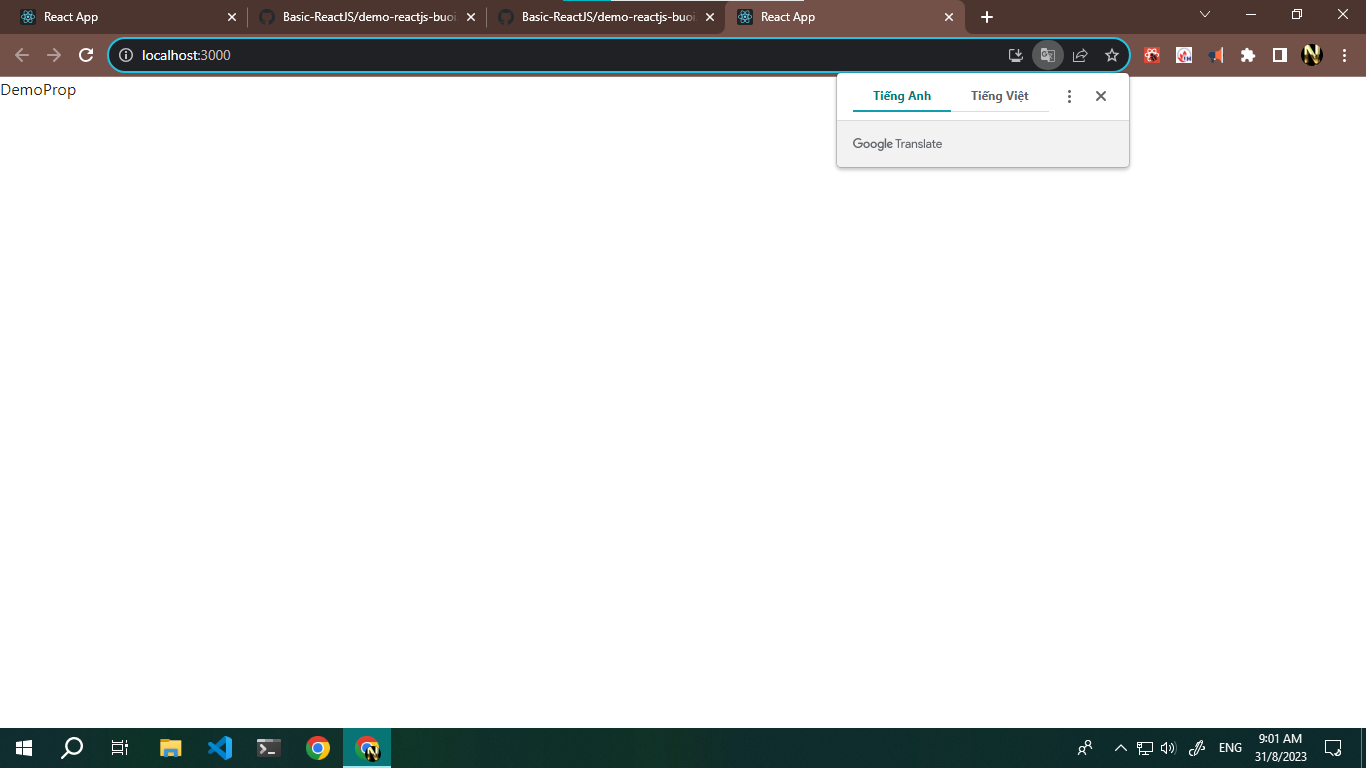
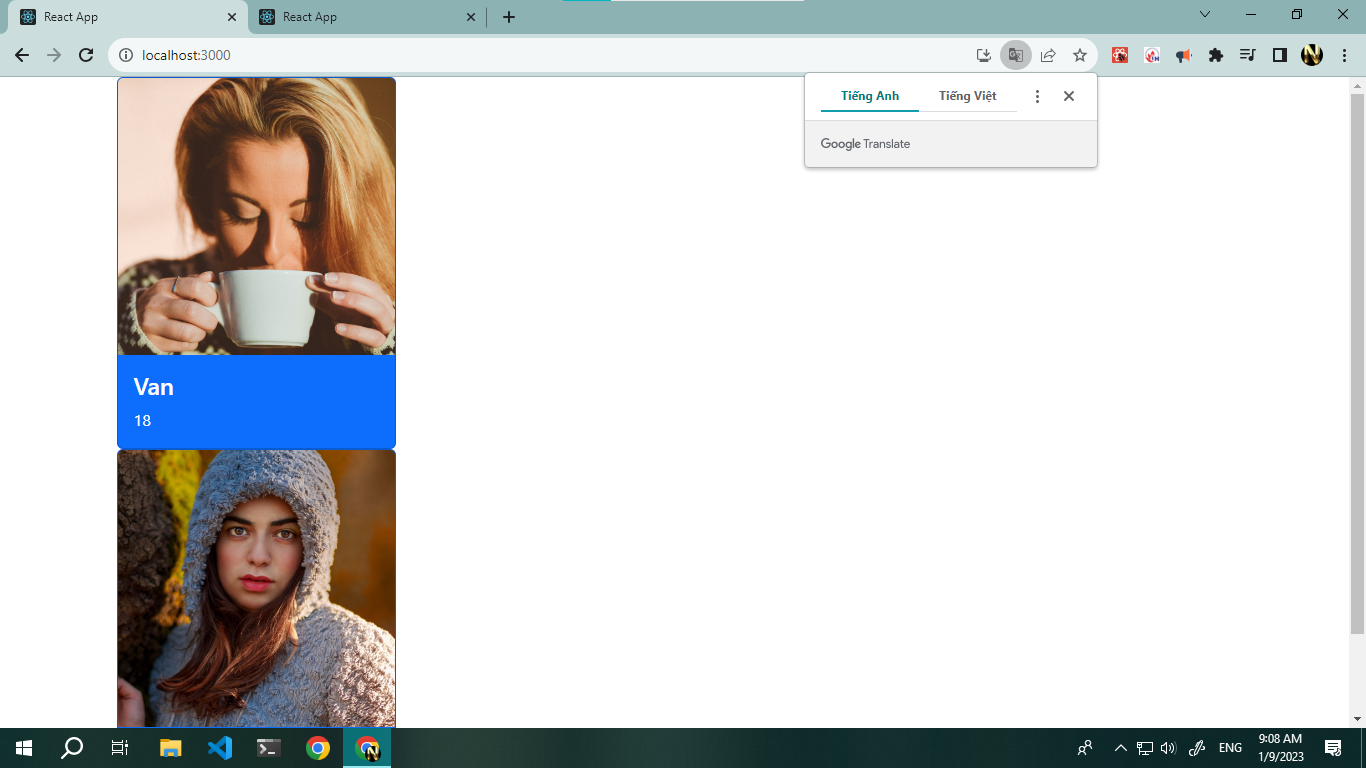
add: su dung props

Changed region(s): [[0.0, 0.0, 1.0, 0.9688], [0.9224, 0.9688, 0.9839, 1.0]]

diff --git a/demo-reactjs-buoi3-props/src/Props/DemoProp/ProductCard.jsx b/demo-reactjs-buoi3-props/src/Props/DemoProp/ProductCard.jsx
@@ -1,11 +1,37 @@
 import React, { Component } from 'react'
 
 export default class ProductCard extends Component {
-  render() {
-    return (
-      <div>
-        ProductCard
-      </div>
-    )
-  }
+
+
+
+    render() {
+        //this.props: thuộc tính có sẵn trong react class component
+        //dùng để nhận giá trị từ component cha truyền vào
+
+        const{name, age} = this.props;
+/*
+        so sánh: state & props
+
+        giống nhau: Đều là thuộc tính có sẵn của react class 
+        component dùng để binding dữ Liệu ra giao dien.
+        
+        khác nhau: state có thể gán lại giá trị thông qua 
+        phương thức setState, props không thể gán lại giá trị 
+        (readonly) dùng để nhận giá trị từ 
+        component cha truyền vào.
+*/
+
+        return (
+            <>
+                <div className="card text-white bg-primary">
+                    <img className="card-img-top" src={`https://i.pravatar.cc/?u=${age}`} width={100} alt="Title" />
+                    <div className="card-body">
+                        <h4 className="card-title">{name}</h4>
+                        <p className="card-text">{age}</p>
+                    </div>
+                </div>
+
+            </>
+        )
+    }
 }

diff --git a/demo-reactjs-buoi3-props/src/Props/DemoProp/DemoProp.jsx b/demo-reactjs-buoi3-props/src/Props/DemoProp/DemoProp.jsx
@@ -1,10 +1,16 @@
 import React, { Component } from 'react'
+import ProductCard from './ProductCard'
 
 export default class DemoProp extends Component {
   render() {
     return (
-      <div>
-        DemoProp
+      <div className='container'>
+        <div className="w-25">
+          <ProductCard name="Van" age="18" />
+        </div>
+        <div className="w-25">
+          <ProductCard name="AVan" age="20" />
+        </div>
       </div>
     )
   }

diff --git a/demo-reactjs-buoi3-props/src/App.js b/demo-reactjs-buoi3-props/src/App.js
@@ -1,6 +1,7 @@
 import logo from './logo.svg';
 import './App.css';
 import DemoProp from './Props/DemoProp/DemoProp';
+import ProductCard from './Props/DemoProp/ProductCard';
 
 function App() {
   return (

diff --git a/README.md b/README.md
@@ -18,4 +18,7 @@ Học FE cơ bản
     rfc: react function component
     rcc: react class component
 
+
+#### Link fake img 
+    avatar : https://i.pravatar.cc/?u=${age}
     
